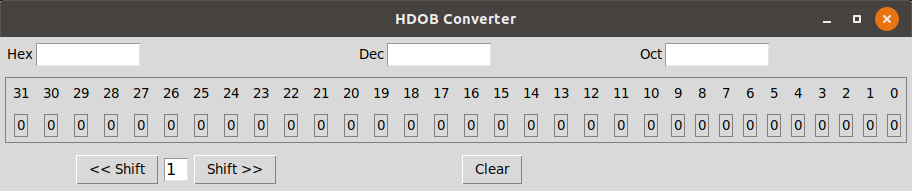
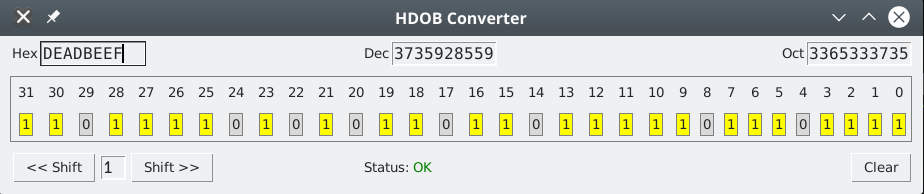
update screenshot and README.md

diff --git a/README.md b/README.md
@@ -1,6 +1,9 @@
 # hdob - The Hex, Decimal, Octal, Binary converter
+![](https://raw.githubusercontent.com/housechou/hdob/master/images/screenshot.png)  
 
-![](https://raw.githubusercontent.com/housechou/hdob/master/images/screenshot.png)
+This is a simple tool to convert integer between hex, decimal, octal and binary.  
+The most cool thing is you can toggle the bit by mouse clicking. It's useful when  
+you are the person who usually read the datasheet.  
 
 ## System Requirement
 Python3
@@ -11,6 +14,7 @@ python3 -m pip install --user hdob
 ```
 
 ## Run
+Make sure the ~/.local/bin is in your path.
 ```bash
 hdob
 ```
